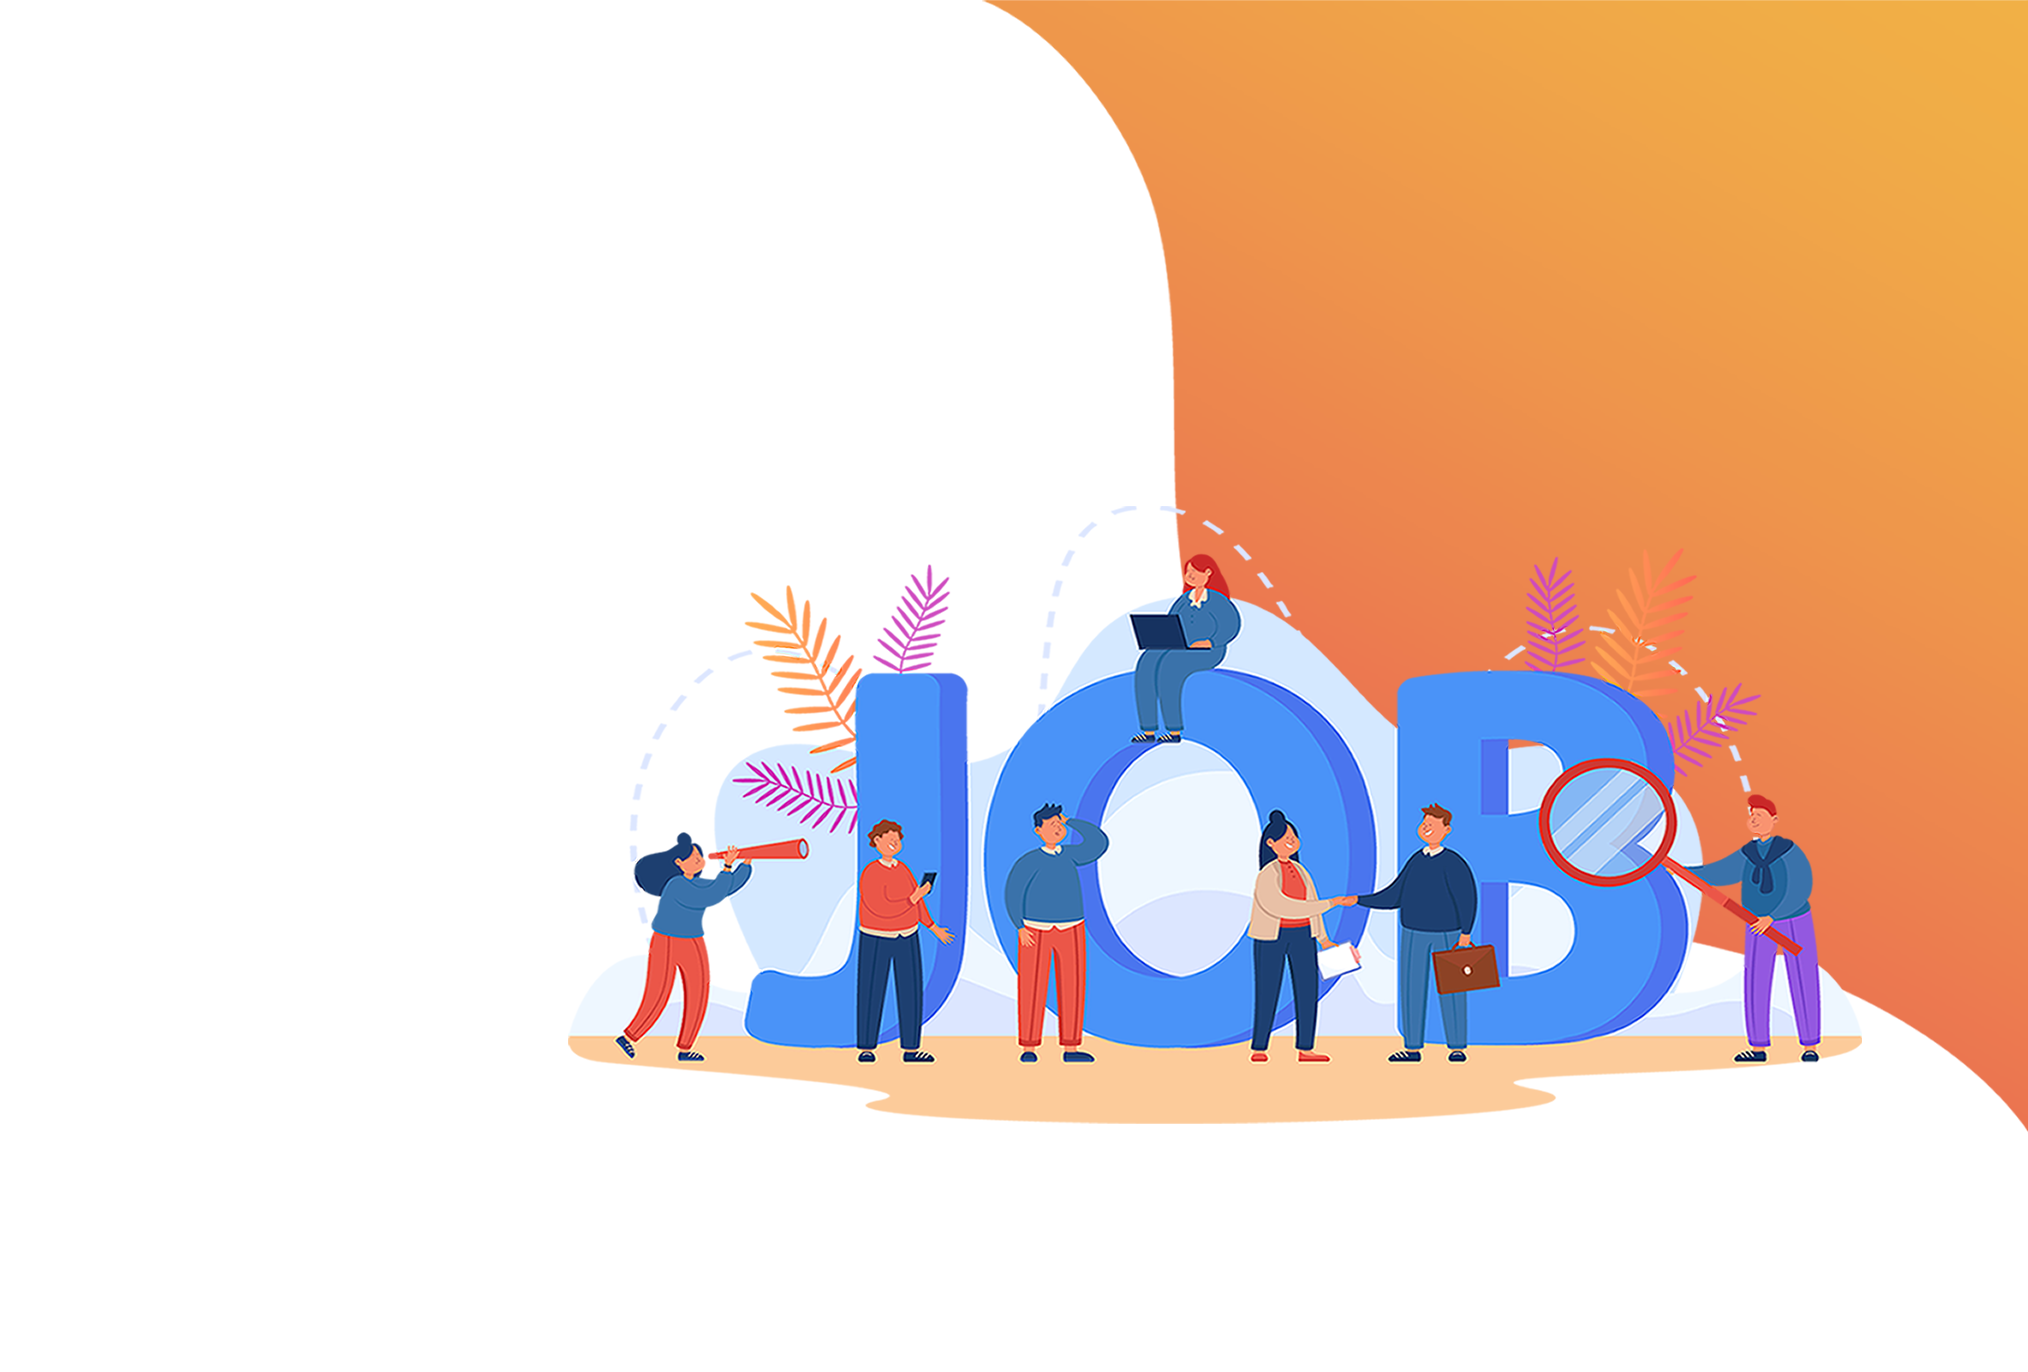
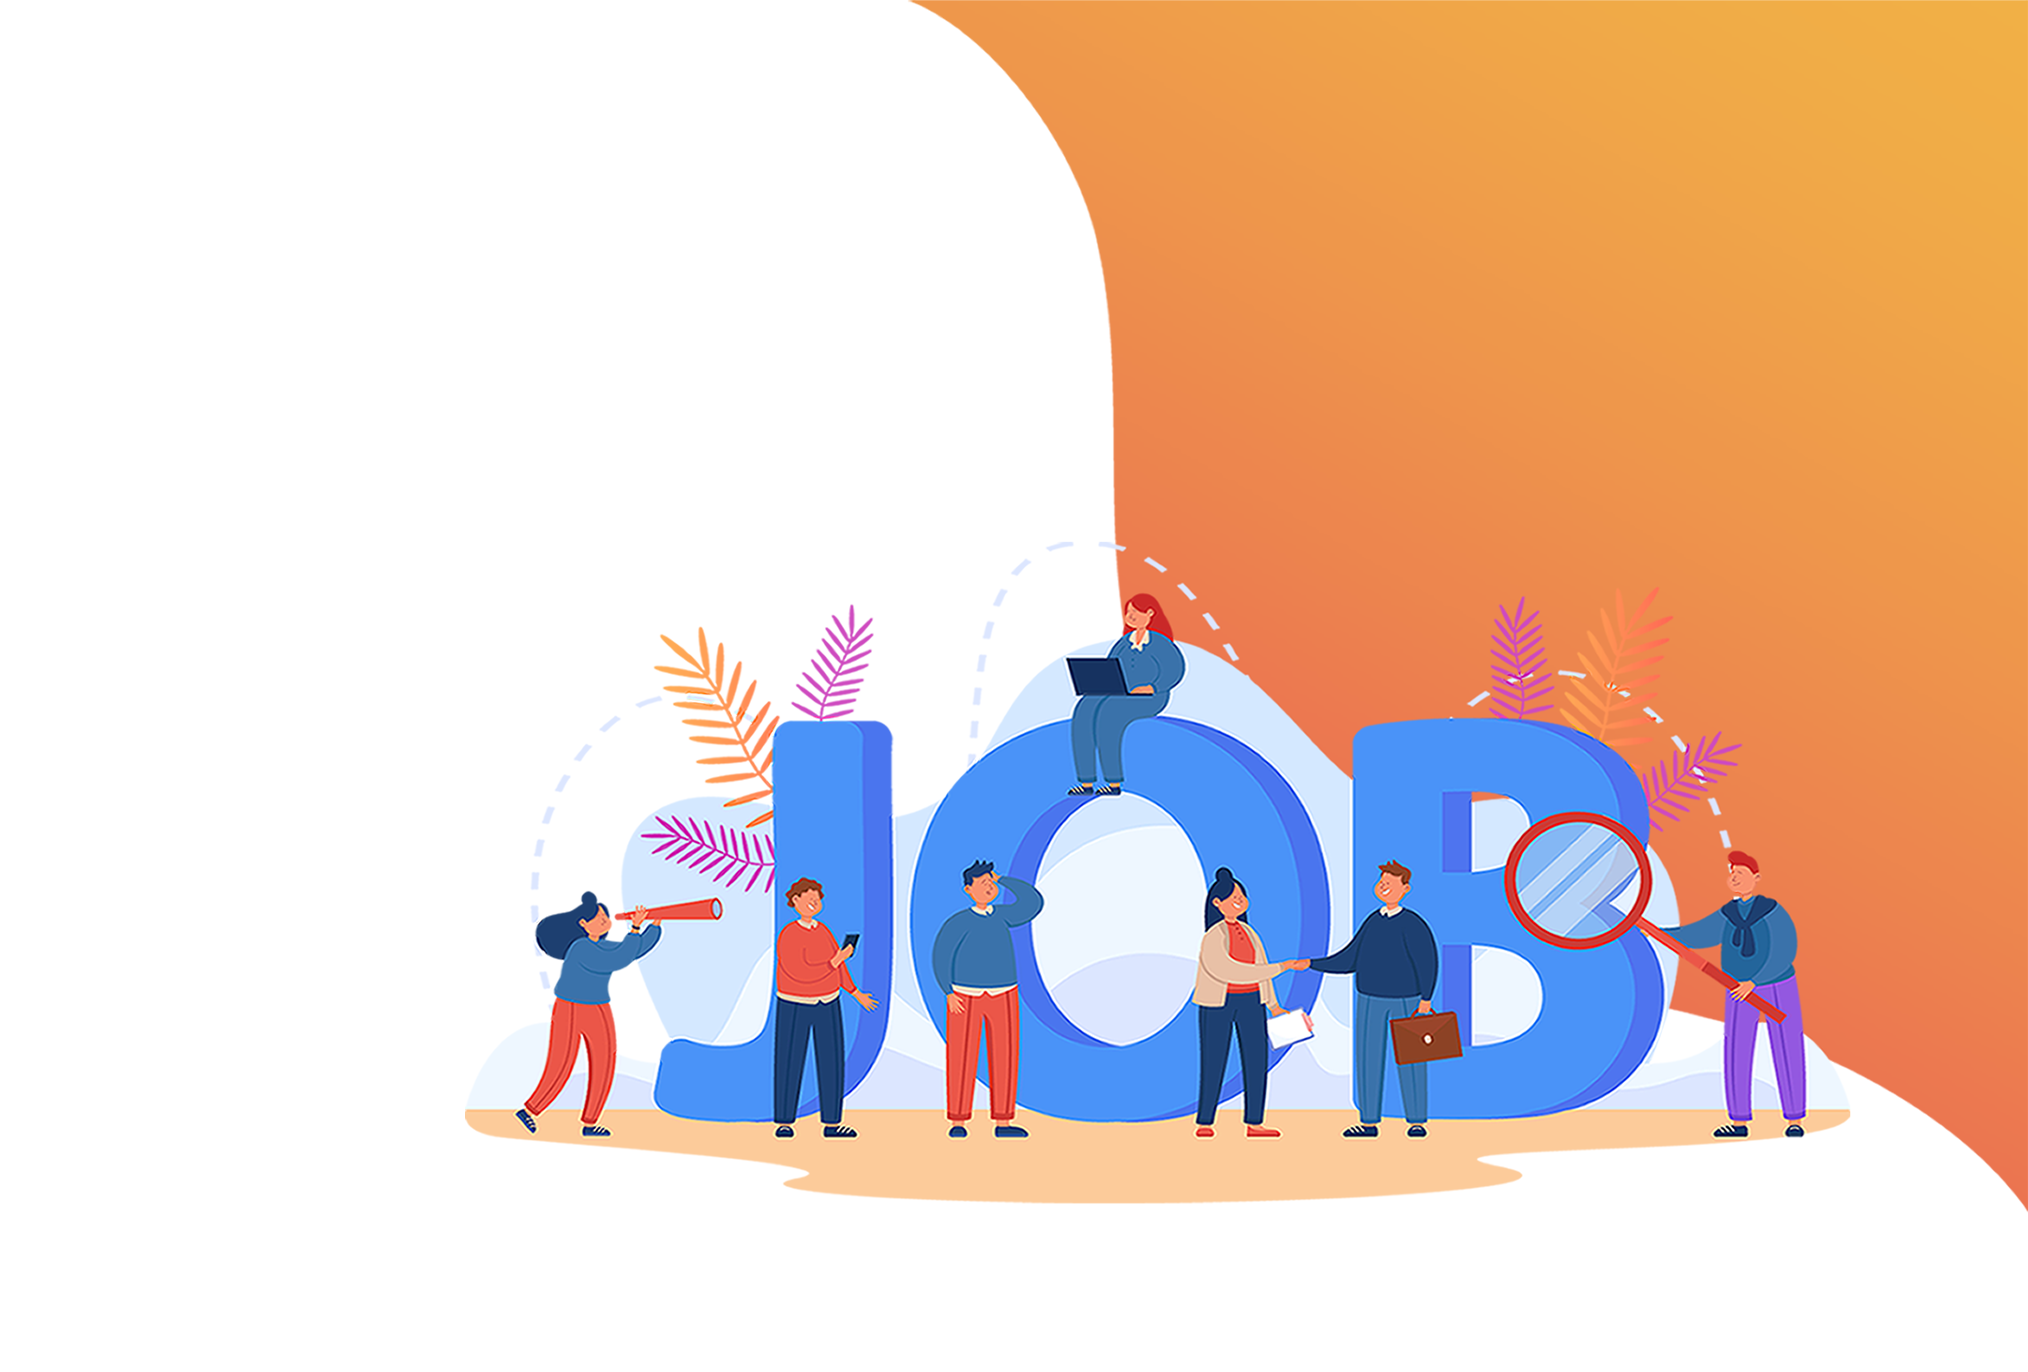
update landing page

Changed region(s): [[0.2175, 0.0, 1.0, 0.8878]]

diff --git a/src/app/views/landing/landing.component.html b/src/app/views/landing/landing.component.html
@@ -5,6 +5,7 @@
 </app-auth-navbar>
 
 <main>
+  <div class="items-center flex flex-wrap min-h-screen">
    <div
       class="  w-full  bg-center"
       style="
@@ -16,19 +17,19 @@
 
 
   <div
-    class="static flex content-center items-center justify-center min-h-screen">
+    class="static flex content-center items-center  min-h-screen">
 
-    <div class="container relative mx-auto my-4 ">
-      <div class=" flex flex-wrap my-4">
-        <div class="px-2 m-lg-4 my-4">
-          <div class="pr-12 my-4" style="font-weight:normal">
+    <div class="container relative mx-auto my-6 ">
+      <div class=" flex flex-wrap my-6">
+        <div class="px-2 m-lg-4 my-6">
+          <div class="pr-12 my-6" style="font-weight:normal">
             <h1 class=" text-lg  text-blueGray-200">
-              <h1 class="text-grey text-4xl font-seminormal" style="letter-spacing: 1px; line-height: 80px; font-size: 70px">Find your job better <br> and faster with  </h1>
+              <h1 class="text-grey font-seminormal" style="letter-spacing: 1px; line-height: 80px; font-size: 70px;">Find your job better <br> and faster with  </h1>
 
             </h1>
             <div style="width: 1100px;">
           <h1
-              style="font-size:55px; width: 430px; margin-top: 1px;"
+              style="font-size:45px; width:350px; margin-top: 1px;"
               class="border-2 rounded-full text-white text-center bg-orangem-500  text-3xl  py-2 rounded  ease-linear transition-all duration-150 font-seminormal"
             >My World Job</h1>
 
@@ -48,12 +49,12 @@
 
 
 
-  </div>
+  </div></div>
 
   <section id="services" class="relative py-10" style="background-color: white">
 
     <div class="container mx-auto px-4">
-       <h1 class="text-5xl text-center font-seminormal" style="color: #587EFF">Browse jobs by category</h1>
+       <h1 class="text-5xl text-center font-seminormal" style="color: #222F59">Browse jobs by category</h1>
       <br>
       <p class="text-center text-grey">Choose from the list of the most popular categories</p>
       <br><br><br><br>
@@ -68,13 +69,14 @@
           <h1 class="text-lg text-center font-bold text-perso" >Finance</h1>
          <p class="text-sm text-center "> 55 open position</p> <br>
         </div>
-        <div class="w-full md:w-4/12 ml-auto mr-auto px-4 shadow-lg rounded-lg jobhover " align="center"
+        <div class="w-full md:w-4/12 ml-auto mr-auto px-4 shadow-lg rounded-lg jobhover  " align="center"
              style="border-radius: 25px; width: 20%; border-spacing: 5px 1rem; height: 280px ">
        <img
             alt="..."
-            class="px-12 text-center my-6 jobCreative"
+            class="px-12 my-6 jobCreative "
             src="assets/img/Creative.png"
           />
+
           <h1 class="text-lg text-center font-bold text-perso" >Creative</h1>
          <p class="text-sm text-center"> 55 open position</p> <br>
         </div>
@@ -148,22 +150,22 @@
 
         <br>
         <h1
-              style="font-size:55px;  width:150px"
-              class=" border-2 lg:w-3/12 rounded-full text-white text-center bg-orangem-500 font-semibold text-3xl py-3 rounded ease-linear transition-all duration-150"
-            >Join</h1>
+              style="font-size:40px;  width:200px"
+              class=" border-2 lg:w-5/12 rounded-full text-white text-center bg-orangem-500 font-semibold text-3xl py-3 rounded ease-linear transition-all duration-150"
+            >JOIN</h1>
       </div>
         </div>
       </div>
 
   </section>
-    <section  class="relative py-10" style="background-color: white">
+    <section  class="relative " style="background-color: white">
 
     <div class="container mx-auto px-4">
        <h1 class="text-3xl text-left font-semibold" style="color: #101a33">Testimonials</h1>
       <br>
       <br>
       <div class="items-center flex flex-wrap">
-         <div class="w-full md:w-4/12 ml-auto mr-auto px-4 shadow-lg rounded-lg " align="center" style="border-radius: 25px; width: 30%">
+         <div class="w-full md:w-6/12 ml-auto mr-auto px-4 shadow-lg rounded-lg " align="center" style="border-radius: 25px; width: 20% ; ">
           <img
             alt="..."
             class="px-12 text-center"
@@ -181,7 +183,7 @@
           <h1 class="text-center text-sm" style="color: #101a33">Lorem ipsum dolor sit amet, consectetur adipisicing elit.Lorem ipsum dolor sit amet, consectetur adipisicing elit.
             <br></h1>
            <br></div>
-         <div class="w-full md:w-4/12 ml-auto mr-auto px-4 shadow-lg rounded-lg " align="center" style="border-radius: 25px; width: 30%">
+         <div class="w-full md:w-4/12 ml-auto mr-auto px-4 shadow-lg rounded-lg " align="center" style="border-radius: 25px; width: 20% ; ">
           <img
             alt="..."
             class="px-12 text-center"
@@ -199,7 +201,7 @@
             <br></h1>
            <br>
         </div>
-         <div class="w-full md:w-4/12 ml-auto mr-auto px-4 shadow-lg rounded-lg" align="center" style="border-radius: 25px; width: 30%">
+         <div class="w-full md:w-4/12 ml-auto mr-auto px-4 shadow-lg rounded-lg" align="center" style="border-radius: 25px; width: 20% ; ">
           <img
             alt="..."
             class="px-12 text-center"

diff --git a/src/assets/styles/tailwind.css b/src/assets/styles/tailwind.css
@@ -92,13 +92,18 @@ small {
   color: white;
 }
 
-.jobCreative{
-  background-image: url("../../assets/img/Creative.png") no-repeat;
 
+
+.jobCreative .creative{
+ display: none;
+        position: absolute;
+        top: 0;
+        left: 0;
+        z-index: 99;
 }
 
-.jobCreative:hover{
-  background-image: url("../../assets/img/Creative_white.png") no-repeat;
+.jobCreative:hover .creative{
+  display: inline;
 }
 /**
 Prevent 'sub' and 'sup' elements from affecting the line height in all browsers.
